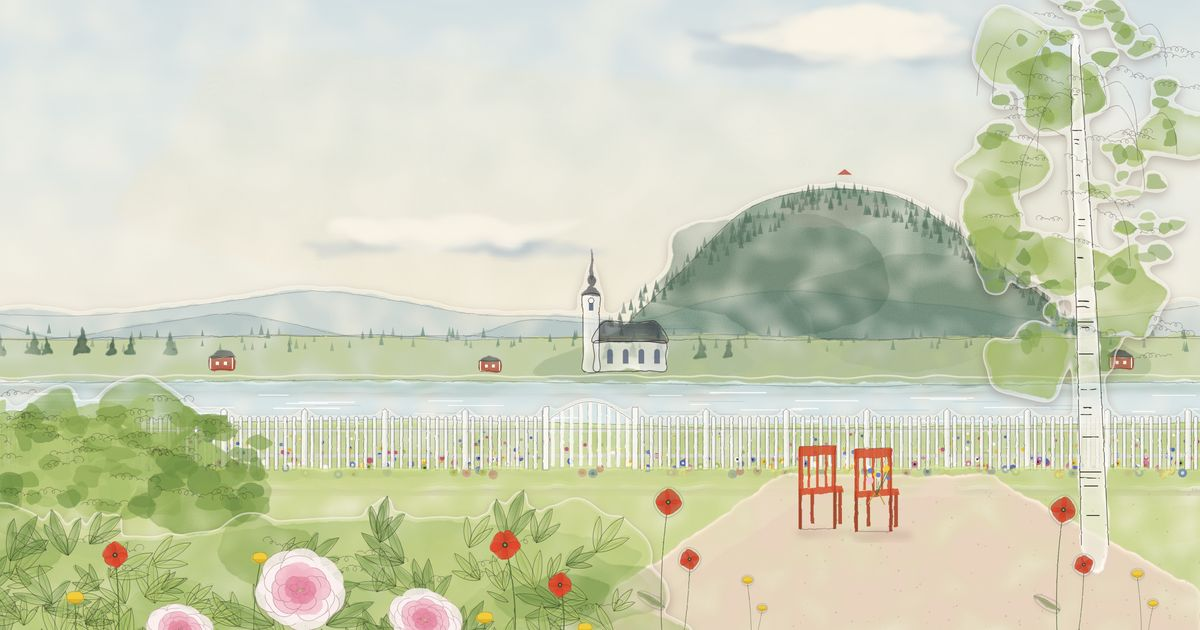
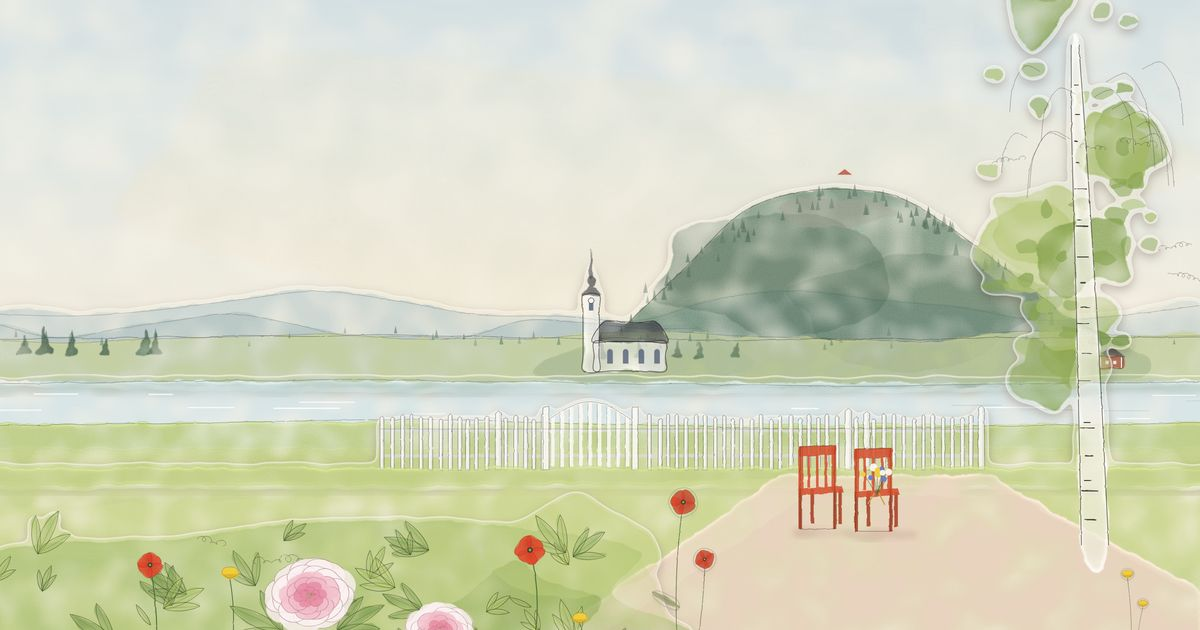
Fix review findings for both versions
Klimt: paint the hillside as clustered tree crowns sized by depth, the
meadow and houses in discrete dabs, a deeper river with vertical
reflections; orchard trunks in strokes and a greener canopy; remove the
dot ornament; keep route labels on one line; plain italic radios.
Larsson: a short irregular fence around the gate, a lighter birch, no
cloud bar, thin rails without sleepers. Both: no arrow glyphs.

Claude-Session: https://claude.ai/code/session_01L58MorUYAUdsrYZMewZZCv

diff --git a/assets/js/klimt.js b/assets/js/klimt.js
@@ -60,93 +60,113 @@
     }
   }
 
+  // Tree crowns: dabs clustered into rounded masses, light on top and violet in
+  // the shadow underneath, sized by depth (smaller up the hill, larger near).
+  function crowns(r, list, region, opt) {
+    var y = opt.y0 || 0;
+    while (y < (opt.y1 || 1)) {
+      var R = opt.radius(y), step = R * 1.25;
+      for (var x = -0.02; x < 1.02; x += step) {
+        var cx = x + (r() - 0.5) * step * 0.7, cy = y + (r() - 0.5) * step * 0.5;
+        if (!region(cx, cy)) continue;
+        var rad = R * (0.75 + r() * 0.5), size = opt.size(cy), count = Math.round(Math.pow(rad / size, 2) * 2.6);
+        for (var i = 0; i < count; i++) {
+          var a = r() * 6.2832, d = Math.sqrt(r()), px = cx + Math.cos(a) * d * rad, py = cy + Math.sin(a) * d * rad * 0.85;
+          if (!region(px, py)) continue;
+          var rel = (py - cy) / (rad * 0.85), light = (rel < -0.25 && (px - cx) < rad * 0.2) ? 1 : 0;
+          var bias = Math.max(0, rel * 0.9 + 0.35) + (opt.noise ? (opt.noise(px * 5, py * 5) - 0.5) * 0.8 : 0);
+          var col = light && r() < 0.6 ? pick(opt.light, r, 0) : pick(opt.palette, r, Math.max(0, bias));
+          var len = size * (0.42 + r() * 0.36);
+          list.push([px, py, len, len * (0.46 + r() * 0.2), (r() - 0.5) * 2.4, jitter(col, r, 24), r() * 0.82 + (opt.late || 0)]);
+        }
+      }
+      y += step * 0.62;
+    }
+  }
+
   var SCENES = {
-    // Järvsöklack seen across the Ljusnan: the hillside fills the square, crossed by a hay meadow;
-    // red farms and the white church along the shore; the river below.
-    jarvso: function (S) {
-      var r = rng(2708), n = noise2(rng(27)), s = 0.0145;
+    // Järvsöklack seen across the Ljusnan (after Litzlberg on the Attersee): the hillside fills
+    // the square in tree crowns, crossed by a hay meadow; farms and the white church on the shore.
+    jarvso: function () {
+      var r = rng(2708), n = noise2(rng(27)), s = 0.0135, shore = 0.835;
       var sky = function (x) { return x < 0.3 ? 0.065 - 0.03 * (x / 0.3) : 0.035 + 0.1 * Math.pow((x - 0.3) / 0.7, 1.4); };
-      var mt = function (x) { return 0.31 + 0.06 * (x - 0.28) + 0.012 * Math.sin(x * 9); };
-      var mb = function (x) { return mt(x) + 0.055 + 0.03 * (x - 0.28); };
+      var mt = function (x) { return 0.3 + 0.06 * (x - 0.28) + 0.012 * Math.sin(x * 9); };
+      var mb = function (x) { return mt(x) + 0.05 + 0.028 * (x - 0.28); };
       var inMeadow = function (x, y) { return x > 0.26 + 0.06 * (1 - Math.min(1, (y - mt(x)) / 0.05)) && y > mt(x) && y < mb(x); };
-      var knoll = function (x, y) { var dx = (x - 0.14) / 0.2, dy = (y - 0.8) / 0.075; return dx * dx + dy * dy < 1 && y < 0.8; };
-      var shore = 0.885;
+      var knoll = function (x, y) { var dx = (x - 0.14) / 0.2, dy = (y - 0.755) / 0.07; return dx * dx + dy * dy < 1 && y < 0.755; };
+      var depth = function (y) { return s * (0.7 + 0.75 * Math.max(0, (y - 0.05) / 0.8)); };
       var back = { id: "hill", dabs: [], shapes: [] }, mid = { id: "village", dabs: [], shapes: [] }, water = { id: "water", dabs: [], shapes: [] };
 
-      // sky: violet-blue with white cloud
-      fill(r, back.dabs, function (x, y) { return y < sky(x); }, { size: s * 1.3, palette: pal([["#7f8fd6", 3], ["#9aa6e0", 2], ["#6d78c4", 2], ["#eef0f6", 0]]), spread: 0.8, angle: 0.2 });
+      fill(r, back.dabs, function (x, y) { return y < sky(x) + 0.01; }, { size: s * 1.3, palette: pal([["#7f8fd6", 3], ["#9aa6e0", 2], ["#6d78c4", 2]]), spread: 0.8, angle: 0.2 });
       fill(r, back.dabs, function (x, y) { return y < sky(x) && Math.pow((x - 0.7) / 0.16, 2) + Math.pow((y - 0.025) / 0.025, 2) < 1; }, { size: s * 1.6, palette: pal([["#f1f2f6", 4], ["#dfe3f0", 2]]), spread: 0.5, late: 0.05 });
       fill(r, back.dabs, function (x, y) { return y < sky(x) && Math.pow((x - 0.95) / 0.1, 2) + Math.pow((y - 0.05) / 0.03, 2) < 1; }, { size: s * 1.6, palette: pal([["#f1f2f6", 4], ["#dfe3f0", 2]]), spread: 0.5, late: 0.05 });
-      // the forested hillside: greens with violet shadow, yellow-green light
-      var forest = pal([["#d4e05a", 0.9], ["#a8d050", 2], ["#7fb84a", 2.6], ["#5a9e44", 2.8], ["#3f7f3e", 2.6], ["#6a70b8", 1.3], ["#2f5a3a", 1.8], ["#41468a", 1.1]]);
-      fill(r, back.dabs, function (x, y) { return y >= sky(x) - 0.004 && y < shore && !inMeadow(x, y) && !knoll(x, y); }, { size: s, palette: forest, noise: n, dark: 1.4, spread: 2.2, jit: 30 });
-      // late-summer hay meadow across the slope
-      fill(r, back.dabs, inMeadow, { size: s * 1.25, palette: pal([["#b9dc5c", 3], ["#a6d452", 3], ["#cfe06e", 2], ["#93c64a", 1]]), spread: 0.5, angle: 0.06, ratio: 0.55, jit: 14, late: 0.02 });
-      // a bright knoll by the shore
-      fill(r, back.dabs, knoll, { size: s * 1.2, palette: pal([["#8fd04a", 3], ["#a6dc58", 2], ["#78bf40", 1]]), spread: 0.6, angle: -0.15, jit: 14 });
+      // an under-layer so no paper shows between crowns
+      fill(r, back.dabs, function (x, y) { return y >= sky(x) && y < shore && !inMeadow(x, y); }, { size: s * 1.4, step: 0.9, palette: pal([["#4f8a3e", 3], ["#3a6e3a", 3], ["#4c5296", 1]]), spread: 2, jit: 20 });
+      var forest = pal([["#a8d050", 1.4], ["#7fb84a", 2.6], ["#5a9e44", 2.8], ["#3f7f3e", 2.6], ["#2f5a3a", 2], ["#5a60aa", 1.4], ["#41468a", 1.2]]);
+      var lightPal = pal([["#d4e05a", 2], ["#b9dc5c", 3], ["#9fd04a", 2]]);
+      crowns(r, back.dabs, function (x, y) { return y >= sky(x) - 0.004 && y < shore - 0.01 && !inMeadow(x, y) && !knoll(x, y); },
+        { radius: function (y) { return 0.018 + 0.03 * Math.max(0, (y - 0.05) / 0.8); }, size: depth, palette: forest, light: lightPal, noise: n });
+      // the hay meadow: discrete bright dabs, not a smear
+      fill(r, back.dabs, inMeadow, { size: s * 1.15, step: 0.62, palette: pal([["#c8de60", 3], ["#b0d652", 3], ["#d8e47a", 1.5], ["#94c64a", 1.5], ["#7fb84a", 0.6]]), spread: 0.9, angle: 0.06, ratio: 0.5, jit: 30, late: 0.02 });
+      fill(r, back.dabs, knoll, { size: s * 1.2, step: 0.62, palette: pal([["#8fd04a", 3], ["#a6dc58", 2], ["#78bf40", 1.5], ["#5a9e44", 0.5]]), spread: 1, angle: -0.15, jit: 26 });
 
-      // the village: farms, the church, dark trees, two spruces
-      function house(x0, x1, yb, h, wall, roof, roofH) {
-        var shapes = mid.shapes;
-        shapes.push({ c: wall, p: [[x0, yb], [x0, yb - h], [x1, yb - h], [x1, yb]] });
-        shapes.push({ c: roof, p: [[x0 - 0.008, yb - h], [x0 + (x1 - x0) * 0.12, yb - h - roofH], [x1 - (x1 - x0) * 0.12, yb - h - roofH], [x1 + 0.008, yb - h]] });
-        fill(r, mid.dabs, function (x, y) { return x > x0 && x < x1 && y > yb - h && y < yb; }, { size: s * 0.7, palette: pal([[wall, 4], ["#ffffff", wall === "#efeee6" ? 1 : 0.15]]), spread: 0.3, jit: 18, late: 0.12, step: 0.7 });
-        fill(r, mid.dabs, function (x, y) { return y < yb - h && y > yb - h - roofH && x > x0 - 0.006 + (yb - h - y) / roofH * (x1 - x0) * 0.12 && x < x1 + 0.006 - (yb - h - y) / roofH * (x1 - x0) * 0.12; }, { size: s * 0.7, palette: pal([[roof, 4], ["#6a6c78", 1]]), spread: 0.25, jit: 16, late: 0.12, step: 0.7 });
-        for (var k = 0; k < Math.round((x1 - x0) / 0.03); k++) shapes.push({ c: "#2c3138", p: rect(x0 + 0.012 + k * 0.03, yb - h * 0.62, 0.008, h * 0.3) });
+      // the village, all in dabs
+      var trees = pal([["#3d6e3a", 3], ["#4f8a3e", 2], ["#2f5a34", 3], ["#2a4a3a", 2], ["#3a3f78", 1]]);
+      [[0.03, 0.755, 0.06], [0.27, 0.745, 0.05], [0.36, 0.765, 0.045], [0.53, 0.745, 0.06], [0.71, 0.755, 0.055], [0.98, 0.745, 0.06]].forEach(function (t) {
+        crowns(r, mid.dabs, function (x, y) { var dx = (x - t[0]) / t[2], dy = (y - t[1]) / (t[2] * 1.1); return dx * dx + dy * dy < 1 && y < shore; },
+          { y0: t[1] - t[2] * 1.1, y1: t[1] + t[2] * 1.1, radius: function () { return t[2] * 0.5; }, size: function () { return s * 1.05; }, palette: trees, light: pal([["#6faa44", 2], ["#8fc04a", 1]]), late: 0.06 });
+      });
+      function block(x0, x1, y0, y1, palette, size) {
+        fill(r, mid.dabs, function (x, y) { return x > x0 && x < x1 && y > y0 && y < y1; }, { size: size || s * 0.75, step: 0.42, palette: palette, spread: 0.35, jit: 16, late: 0.12 });
       }
-      function rect(x, y, w, h) { return [[x, y], [x + w, y], [x + w, y + h], [x, y + h]]; }
-      // dark tree masses behind the houses
-      var trees = pal([["#2f5a34", 3], ["#3d6e3a", 3], ["#4f8a3e", 2], ["#2a4a3a", 2], ["#3a3f78", 0.8]]);
-      [[0.03, 0.80, 0.06], [0.27, 0.79, 0.05], [0.36, 0.81, 0.045], [0.52, 0.79, 0.06], [0.7, 0.80, 0.055], [0.98, 0.79, 0.06]].forEach(function (t) {
-        fill(r, mid.dabs, function (x, y) { var dx = (x - t[0]) / t[2], dy = (y - t[1]) / (t[2] * 1.1); return dx * dx + dy * dy < 1 && y < shore; }, { size: s * 0.95, palette: trees, spread: 2.4, late: 0.06 });
-      });
-      house(0.05, 0.22, shore - 0.008, 0.045, "#efeee6", "#5b5e6c", 0.03);   // white farmhouse, long
-      house(0.26, 0.33, shore - 0.012, 0.035, "#a8402e", "#4a4c58", 0.026); // red barn
-      // the church on Kyrkön: nave and tall tower
+      function house(x0, x1, yb, h, wall, roof, roofH) {
+        block(x0, x1, yb - h, yb, pal([[wall, 5], [wall === "#efeee6" ? "#ffffff" : "#c05a44", 1], ["#9a9a92", wall === "#efeee6" ? 0.6 : 0]]));
+        fill(r, mid.dabs, function (x, y) { var t = (yb - h - y) / roofH; return y < yb - h + 0.002 && y > yb - h - roofH && x > x0 - 0.006 + t * (x1 - x0) * 0.12 && x < x1 + 0.006 - t * (x1 - x0) * 0.12; }, { size: s * 0.75, step: 0.42, palette: pal([[roof, 4], ["#6a6c78", 1.4], ["#383a46", 1]]), spread: 0.3, jit: 16, late: 0.13 });
+        for (var k = 0; k < Math.round((x1 - x0) / 0.03); k++) mid.dabs.push([x0 + 0.016 + k * 0.03, yb - h * 0.5, s * 0.32, s * 0.48, 0, "rgb(44,49,56)", 0.95]);
+      }
+      house(0.05, 0.22, shore - 0.008, 0.045, "#efeee6", "#5b5e6c", 0.03);
+      house(0.26, 0.33, shore - 0.012, 0.035, "#a8402e", "#4a4c58", 0.026);
       house(0.43, 0.54, shore - 0.01, 0.05, "#efeee6", "#4a4c58", 0.03);
-      mid.shapes.push({ c: "#efeee6", p: rect(0.405, shore - 0.135, 0.03, 0.125) });
-      mid.shapes.push({ c: "#3e404c", p: [[0.4, shore - 0.135], [0.42, shore - 0.175], [0.44, shore - 0.135]] });
-      mid.shapes.push({ c: "#3e404c", p: [[0.416, shore - 0.175], [0.42, shore - 0.215], [0.424, shore - 0.175]] });
-      fill(r, mid.dabs, function (x, y) { return x > 0.405 && x < 0.435 && y > shore - 0.135 && y < shore - 0.01; }, { size: s * 0.6, palette: pal([["#efeee6", 4], ["#d8dbe0", 1]]), spread: 0.2, jit: 12, late: 0.14, step: 0.7 });
-      mid.shapes.push({ c: "#2c3138", p: rect(0.416, shore - 0.115, 0.008, 0.014) });
-      house(0.6, 0.69, shore - 0.008, 0.04, "#a8402e", "#4a4c58", 0.03);    // red farm
-      house(0.76, 0.86, shore - 0.01, 0.042, "#b0473a", "#3e404c", 0.032);  // red farm with dark roof
-      // spruces, like Klimt's cypresses
+      block(0.405, 0.435, shore - 0.135, shore - 0.01, pal([["#efeee6", 5], ["#ffffff", 1], ["#c9ccd2", 1]]), s * 0.6);
+      fill(r, mid.dabs, function (x, y) { return y > shore - 0.178 && y < shore - 0.133 && Math.abs(x - 0.42) < 0.02 * (y - (shore - 0.178)) / 0.045 + 0.002; }, { size: s * 0.55, step: 0.42, palette: pal([["#3e404c", 4], ["#55586a", 1]]), spread: 0.3, late: 0.14 });
+      fill(r, mid.dabs, function (x, y) { return y > shore - 0.22 && y < shore - 0.176 && Math.abs(x - 0.42) < 0.0045; }, { size: s * 0.45, step: 0.42, palette: pal([["#3e404c", 1]]), spread: 0.2, angle: 1.57, late: 0.15 });
+      mid.dabs.push([0.42, shore - 0.108, s * 0.3, s * 0.45, 0, "rgb(44,49,56)", 0.96]);
+      house(0.6, 0.69, shore - 0.008, 0.04, "#a8402e", "#4a4c58", 0.03);
+      house(0.76, 0.86, shore - 0.01, 0.042, "#b0473a", "#3e404c", 0.032);
       [[0.885, 0.165], [0.925, 0.2], [0.955, 0.14]].forEach(function (t) {
-        fill(r, mid.dabs, function (x, y) { var hy = shore - t[1]; if (y < hy || y > shore) return false; var w = 0.022 * (y - hy) / t[1] + 0.004; return Math.abs(x - t[0]) < w; }, { size: s * 0.85, palette: pal([["#244a32", 3], ["#2f5a34", 3], ["#3d6e3a", 1], ["#2c2f5e", 0.6]]), spread: 0.8, angle: 1.57, late: 0.1 });
+        fill(r, mid.dabs, function (x, y) { var hy = shore - t[1]; if (y < hy || y > shore) return false; return Math.abs(x - t[0]) < 0.022 * (y - hy) / t[1] + 0.004; }, { size: s * 0.85, step: 0.45, palette: pal([["#244a32", 3], ["#2f5a34", 3], ["#3d6e3a", 1], ["#2c2f5e", 0.8]]), spread: 0.8, angle: 1.57, late: 0.1 });
       });
-      // a thin bright shoreline
-      fill(r, mid.dabs, function (x, y) { return y > shore - 0.006 && y < shore + 0.007; }, { size: s * 0.9, palette: pal([["#8fd04a", 3], ["#b9dc5c", 2]]), spread: 0.2, ratio: 0.4, late: 0.15 });
+      fill(r, mid.dabs, function (x, y) { return y > shore - 0.006 && y < shore + 0.008; }, { size: s * 0.9, palette: pal([["#8fd04a", 3], ["#b9dc5c", 2]]), spread: 0.2, ratio: 0.4, late: 0.15 });
 
-      // the river: long pale dabs, with the village reflected
-      var wpal = pal([["#b5c8b8", 3], ["#c8d3c6", 2], ["#9fb3a2", 2], ["#a9b4cc", 1.5], ["#8fa896", 1.2], ["#d6dccf", 1]]);
-      fill(r, water.dabs, function (x, y) { return y > shore + 0.005; }, { size: s * 1.25, palette: wpal, angle: 0, spread: 0.12, ratio: 0.32, jit: 16, late: 0.18, y0: shore - 0.01 });
-      [[0.05, 0.22, "#e6e8e0"], [0.26, 0.33, "#a8402e"], [0.405, 0.54, "#e6e8e0"], [0.6, 0.69, "#9a4232"], [0.76, 0.86, "#a24a3c"], [0.87, 0.97, "#2f5a34"], [0.0, 0.05, "#3d6e3a"], [0.5, 0.58, "#3d6e3a"]].forEach(function (h) {
-        fill(r, water.dabs, function (x, y) { return x > h[0] && x < h[1] && y > shore + 0.008 && y < shore + 0.065 && r() < 0.55; }, { size: s * 1.1, palette: pal([[h[2], 3], ["#b5c8b8", 1]]), angle: 0, spread: 0.1, ratio: 0.3, jit: 18, late: 0.2, y0: shore });
+      // the river: deep, green with the hill, the village mirrored in vertical strokes
+      var wpal = pal([["#a9c4a8", 3], ["#8fb894", 2.4], ["#c3d2c2", 2], ["#9fb0c8", 1.4], ["#7aa684", 1.4], ["#d6dccf", 1]]);
+      fill(r, water.dabs, function (x, y) { return y > shore + 0.006; }, { size: s * 1.3, step: 0.5, palette: wpal, angle: 0, spread: 0.12, ratio: 0.32, jit: 16, late: 0.18, y0: shore - 0.01 });
+      fill(r, water.dabs, function (x, y) { return y > shore + 0.006 && y < shore + 0.07 && r() < 0.5; }, { size: s * 1.2, palette: pal([["#5a9e44", 3], ["#3f7f3e", 2], ["#4c5296", 1]]), angle: 0, spread: 0.1, ratio: 0.3, jit: 18, late: 0.19, y0: shore });
+      [[0.05, 0.22, "#e6e8e0"], [0.26, 0.33, "#a8402e"], [0.405, 0.435, "#e6e8e0"], [0.43, 0.54, "#e6e8e0"], [0.6, 0.69, "#9a4232"], [0.76, 0.86, "#a24a3c"], [0.87, 0.97, "#2a4a3a"], [0.0, 0.05, "#3d6e3a"]].forEach(function (h) {
+        var deep = h[1] - h[0] < 0.04 ? 0.15 : 0.09;
+        fill(r, water.dabs, function (x, y) { return x > h[0] && x < h[1] && y > shore + 0.008 && y < shore + deep && r() < 0.6; }, { size: s * 1.05, palette: pal([[h[2], 3], ["#a9c4a8", 1]]), angle: 1.57, spread: 0.12, ratio: 0.26, jit: 18, late: 0.2, y0: shore });
       });
       return { layers: [back, mid, water] };
     },
 
-    // An orchard in late summer, after Pear Tree: a canopy of dabs with small
-    // pears, a hedge behind, trunks, one birch, and bright grass.
-    orchard: function (S) {
+    // An orchard in late summer, after Pear Tree: a canopy of greens with yellow-green
+    // light and small pears, violet only in shadow; trunks and one birch painted in strokes.
+    orchard: function () {
       var r = rng(2808), n = noise2(rng(28)), s = 0.0115;
       var back = { id: "canopy", dabs: [], shapes: [] }, mid = { id: "trunks", dabs: [], shapes: [] };
-      var canopy = pal([["#d8e05a", 0.8], ["#9fcf4c", 2], ["#6fb04a", 2.6], ["#3f8a5a", 2.4], ["#5b63b4", 2], ["#7a6cc0", 1], ["#2f6a5a", 1.6], ["#3e3f86", 0.9]]);
-      fill(r, back.dabs, function (x, y) { return y < 0.66 + 0.04 * Math.sin(x * 7); }, { size: s, palette: canopy, noise: n, dark: 1.1, spread: 2.6, jit: 34 });
-      fill(r, back.dabs, function (x, y) { return y > 0.6 && y < 0.82; }, { size: s * 0.7, palette: pal([["#5b63b4", 2], ["#3f8a5a", 2], ["#7a6cc0", 1], ["#2f6a5a", 2], ["#c9dc5a", 0.6], ["#d06a5a", 0.3]]), spread: 2.6, jit: 30, step: 0.5 });
-      fill(r, back.dabs, function (x, y) { return y >= 0.82; }, { size: s * 1.2, palette: pal([["#8fd04a", 3], ["#7cc044", 2], ["#a6dc58", 1.5], ["#6aaa40", 1]]), spread: 0.4, ratio: 0.5, jit: 14 });
-      // pears among the leaves
-      for (var i = 0; i < 70; i++) { var px = r(), py = r() * 0.6; back.dabs.push([px, py, s * 0.42, s * 0.36, r() * 3, "rgb(232,236,120)", 0.5 + r() * 0.4]); }
-      // trunks
-      function trunk(x, w, top, col, lean) {
-        mid.shapes.push({ c: col, p: [[x - w / 2, 0.97], [x - w / 2 + lean, top], [x + w / 2 + lean, top], [x + w / 2, 0.97]] });
-        fill(r, mid.dabs, function (px, py) { var t = (0.97 - py) / (0.97 - top), cx = x + lean * t; return py > top && py < 0.97 && Math.abs(px - cx) < w / 2; }, { size: s * 0.7, palette: pal([[col, 4], ["#6a5a4a", 1], ["#8a9a6a", 0.6]]), angle: 1.57, spread: 0.5, late: 0.15, step: 0.6 });
+      var canopy = pal([["#d8e05a", 1.1], ["#b4d652", 2], ["#8fc44a", 2.6], ["#64a848", 2.8], ["#3f8a52", 2.4], ["#2f6a4a", 1.6], ["#5b63b4", 0.9], ["#3e3f86", 0.6]]);
+      fill(r, back.dabs, function (x, y) { return y < 0.66 + 0.04 * Math.sin(x * 7); }, { size: s, palette: canopy, noise: n, dark: 1.6, spread: 2.6, jit: 28 });
+      crowns(r, back.dabs, function (x, y) { return y < 0.64 + 0.04 * Math.sin(x * 7); }, { radius: function () { return 0.06; }, size: function () { return s * 1.05; }, palette: canopy, light: pal([["#e2e86a", 2], ["#c8de60", 2]]), noise: n });
+      fill(r, back.dabs, function (x, y) { return y > 0.6 && y < 0.82; }, { size: s * 0.7, step: 0.5, palette: pal([["#3f8a5a", 3], ["#5b63b4", 1.4], ["#2f6a5a", 2], ["#8fc44a", 1.2], ["#c9dc5a", 0.6], ["#d06a5a", 0.3]]), spread: 2.6, jit: 30 });
+      fill(r, back.dabs, function (x, y) { return y >= 0.82; }, { size: s * 1.2, palette: pal([["#8fd04a", 3], ["#7cc044", 2], ["#a6dc58", 1.5], ["#6aaa40", 1]]), spread: 0.5, ratio: 0.5, jit: 18 });
+      for (var i = 0; i < 70; i++) { back.dabs.push([r(), r() * 0.6, s * 0.42, s * 0.36, r() * 3, "rgb(232,236,120)", 0.5 + r() * 0.4]); }
+      function trunk(x, w, top, cols, lean) {
+        fill(r, mid.dabs, function (px, py) { var t = (0.97 - py) / (0.97 - top), cx = x + lean * t; return py > top && py < 0.97 && Math.abs(px - cx) < w / 2; },
+          { size: s * 0.75, step: 0.4, palette: cols, angle: 1.57, spread: 0.45, ratio: 0.38, jit: 22, late: 0.15 });
       }
-      [[0.08, 0.035, 0.62, "#7a6450", 0.01], [0.3, 0.03, 0.66, "#806a54", -0.02], [0.45, 0.018, 0.7, "#7a6450", 0.005], [0.84, 0.04, 0.6, "#7a6450", 0.03], [0.95, 0.03, 0.63, "#806a54", -0.01], [0.56, 0.014, 0.72, "#7a6450", 0]].forEach(function (t) { trunk(t[0], t[1], t[2], t[3], t[4]); });
-      // the birch: pale bark with dark marks and lichen
-      trunk(0.68, 0.06, 0.55, "#c9c8bc", -0.01);
-      for (i = 0; i < 26; i++) { var by = 0.58 + r() * 0.38; mid.dabs.push([0.66 + r() * 0.04, by, s * (0.5 + r() * 0.6), s * 0.22, r() * 0.6 - 0.3, r() < 0.6 ? "rgb(44,44,40)" : "rgb(160,170,110)", 0.4 + r() * 0.4]); }
+      var bark = pal([["#7a6450", 4], ["#8c7660", 2], ["#5e4c3e", 2], ["#8a9a6a", 0.8]]);
+      [[0.08, 0.035, 0.62, 0.01], [0.3, 0.03, 0.66, -0.02], [0.45, 0.018, 0.7, 0.005], [0.84, 0.04, 0.6, 0.03], [0.95, 0.03, 0.63, -0.01], [0.56, 0.014, 0.72, 0]].forEach(function (t) { trunk(t[0], t[1], t[2], bark, t[3]); });
+      trunk(0.68, 0.06, 0.55, pal([["#d6d5ca", 4], ["#c2c1b4", 2], ["#2c2c28", 1.2], ["#a0aa6e", 0.8]]), -0.01);
       return { layers: [back, mid] };
     },
   };

diff --git a/assets/css/klimt.css b/assets/css/klimt.css
@@ -85,9 +85,7 @@ a:hover { color: var(--violet); text-decoration-color: var(--violet); }
 .section { padding: clamp(4rem, 11vh, 7.5rem) var(--gutter); }
 .column { max-width: 36rem; margin: 0 auto; }
 .section h2 { margin: 0 0 1.6rem; font: 400 clamp(1.15rem, 1rem + .6vw, 1.5rem)/1.3 var(--caps); letter-spacing: .3em; text-transform: uppercase; text-align: center; }
-.mark { display: block; width: 22px; height: 22px; margin: 0 auto 2.2rem; border-radius: 50%; background:
-  radial-gradient(circle at 30% 30%, #c9dc5a 0 18%, transparent 19%), radial-gradient(circle at 68% 40%, #4f9a3c 0 20%, transparent 21%),
-  radial-gradient(circle at 40% 72%, #5d64b0 0 19%, transparent 20%), radial-gradient(circle at 72% 74%, #74b443 0 17%, transparent 18%), #3a7a3a; }
+
 .note { font-style: italic; color: var(--slate-soft); text-align: center; }
 .schedule { list-style: none; margin: 2.2rem 0 0; padding: 0; }
 .schedule li { display: grid; grid-template-columns: 5.5rem 1fr; gap: 1rem; padding: .95rem 0; border-top: 1px solid var(--line); align-items: baseline; }
@@ -97,7 +95,7 @@ a:hover { color: var(--violet); text-decoration-color: var(--violet); }
 .schedule span { font-style: italic; color: var(--slate-soft); }
 .route { list-style: none; margin: 2.4rem 0; padding: 0; display: grid; grid-template-columns: repeat(6, 1fr); position: relative; font: .72rem/1.3 var(--caps); letter-spacing: .12em; text-transform: uppercase; text-align: center; }
 .route::before { content: ""; position: absolute; left: calc(100% / 12); right: calc(100% / 12); top: .45rem; border-top: 1px solid var(--slate); }
-.route li { position: relative; padding-top: 1.6rem; }
+.route li { position: relative; padding-top: 1.6rem; white-space: nowrap; letter-spacing: .06em; }
 .route li::before { content: ""; position: absolute; left: 50%; top: .1rem; width: .7rem; height: .7rem; margin-left: -.35rem; border-radius: 50%; background: var(--ground); border: 1px solid var(--slate); }
 .route li:last-child::before { background: var(--violet); border-color: var(--violet); }
 .route li:last-child { color: var(--violet); }
@@ -126,7 +124,7 @@ legend { padding: 0; margin-bottom: .6rem; }
 .choices { display: flex; flex-wrap: wrap; gap: .4rem 1.8rem; }
 .choice { position: relative; display: inline-flex; }
 .choice input { position: absolute; opacity: 0; inset: 0; margin: 0; cursor: pointer; }
-.choice span { display: inline-flex; align-items: center; gap: .6rem; min-height: 44px; font-style: italic; cursor: pointer; }
+.choice span { display: inline-flex; align-items: center; gap: .6rem; min-height: 44px; font: italic 1.08rem/1.3 var(--text); letter-spacing: 0; text-transform: none; cursor: pointer; }
 .choice span::before { content: ""; width: .8rem; height: .8rem; border-radius: 50%; border: 1px solid var(--slate); flex: none; transition: background-color .3s, box-shadow .3s; }
 .choice input:checked + span::before { background: var(--violet); border-color: var(--violet); box-shadow: inset 0 0 0 2px var(--ground); }
 .choice input:focus-visible + span { outline: 1.5px solid var(--slate); outline-offset: 4px; }

diff --git a/tools/paint/scene.js b/tools/paint/scene.js
@@ -213,7 +213,7 @@ function birch(x, yBase, h, lean = 0, spread = 1) {
   const cx = x + lean * 0.8, cy = yBase - h * 0.72, cw = h * 0.26 * spread, ch = h * 0.4;
   const inCrown = () => { for (;;) { const u = rr(-1, 1), v = rr(-1, 1); if (u * u + v * v < 1) return [cx + u * cw, cy + v * ch]; } };
   for (let i = 0; i < 9; i++) { const [bx, by] = inCrown(); crown.push(wash(blob(bx, by, rr(50, 90) * h / 900, rr(40, 80) * h / 900, 10, 0.3), pick([C.leafLight, "#b9c97c", C.leafMid]), rr(0.75, 0.95), "wc")); }
-  for (let i = 0; i < 70; i++) {
+  for (let i = 0; i < 38; i++) {
     const [bx, by] = inCrown(), low = (by - cy) / ch;
     crown.push(washOff(blob(bx, by, rr(10, 22) * h / 900, rr(8, 16) * h / 900, 7, 0.35), low > 0.3 && rnd() < 0.3 ? C.leaf : pick([C.leafMid, "#a8bf6c", C.leafMid]), rr(0.5, 0.8), "wcfine", 3));
   }
@@ -233,7 +233,7 @@ function birch(x, yBase, h, lean = 0, spread = 1) {
     s += ink(smooth([[sx, sy], [sx + dir * len * 0.3, sy - len * 0.1], [sx + dir * len * 0.55, sy + len * 0.3], [sx + dir * len * 0.62, sy + len * 0.85]], false), 0.8, C.ink, 0.55);
   }
   // loop scribbles over the crown
-  for (let i = 0; i < 12; i++) {
+  for (let i = 0; i < 6; i++) {
     const [lx, ly] = inCrown();
     s += ink(loops(lx, ly, lx + rr(40, 90) * h / 900, ly + rr(-10, 25), rr(3.5, 5.5) * h / 900), 0.8, C.ink, 0.5);
   }
@@ -545,9 +545,9 @@ function picketFence(x0, x1, yBase, h, gateAt) {
   const rail = (yy) => polyL([[x0, yy], [x1, yy], [x1, yy + h * 0.06], [x0, yy + h * 0.06]], 0.6);
   s += wash(rail(yBase - h * 0.78), G.picketShade, 0.9, "wcfine") + wash(rail(yBase - h * 0.3), G.picketShade, 0.9, "wcfine");
   const step = h * 0.17;
-  for (let x = x0; x < x1; x += step) {
+  for (let x = x0; x < x1; x += step * rr(0.85, 1.2)) {
     if (gateAt && Math.abs(x - gateAt) < h * 0.9) continue;
-    const big = Math.round((x - x0) / step) % 9 === 0, ph = big ? h * 1.12 : h, pw = big ? step * 0.7 : step * 0.42;
+    const big = rnd() < 0.08, ph = (big ? h * 1.12 : h) * rr(0.93, 1.05), pw = big ? step * 0.7 : step * rr(0.36, 0.48);
     const d = polyL([[x, yBase], [x, yBase - ph], [x + pw / 2, yBase - ph - pw * 0.4], [x + pw, yBase - ph], [x + pw, yBase]], 0.5);
     s += wash(d, G.picket, 1, "wcfine") + wash(polyL([[x + pw * 0.62, yBase], [x + pw * 0.62, yBase - ph], [x + pw, yBase - ph], [x + pw, yBase]], 0.3), G.picketShade, 0.7, "wcfine") + ink(d, 1, C.ink, 0.55);
   }

diff --git a/assets/css/site.css b/assets/css/site.css
@@ -236,7 +236,7 @@ a:hover { text-decoration-color: currentColor; }
 .line-north { margin: clamp(2.5rem, 6vh, 4rem) 0; }
 .line-north ol { list-style: none; margin: 0; padding: 0; display: grid; grid-template-columns: repeat(6, 1fr); position: relative; }
 .line-north ol::before { content: ""; position: absolute; left: calc(100% / 12); right: calc(100% / 12); top: 1.05rem; height: 7px;
-  background: linear-gradient(var(--ink), var(--ink)) top / 100% 1.5px no-repeat, linear-gradient(var(--ink), var(--ink)) bottom / 100% 1.5px no-repeat, repeating-linear-gradient(90deg, var(--ink-soft) 0 1.5px, transparent 1.5px 9px); opacity: .7; }
+  background: linear-gradient(var(--ink), var(--ink)) top / 100% 1px no-repeat, linear-gradient(var(--ink), var(--ink)) bottom / 100% 1px no-repeat; opacity: .6; }
 .line-north li { text-align: center; position: relative; padding-top: 2.6rem; font-size: .98rem; line-height: 1.25; }
 .line-north li::before { content: ""; position: absolute; left: 50%; top: .55rem; width: 1.15rem; height: 1.15rem; margin-left: -.575rem; border-radius: 50%; background: var(--paper); border: 2px solid var(--ink); }
 .line-north li.is-end::before { background: var(--falu); border-color: #8b2d22; width: 1.6rem; height: 1.6rem; margin-left: -.8rem; top: .32rem; box-shadow: 0 0 0 4px var(--paper), 0 0 0 5.5px var(--gold); }
@@ -319,7 +319,7 @@ legend { padding: 0; margin-bottom: .55rem; }
   .schedule li { grid-template-columns: 4.4rem 1fr; gap: 1rem; }
   .line-north ol { grid-template-columns: 1fr; }
   .line-north ol::before { left: 1.05rem; right: auto; top: 1.2rem; bottom: 1.6rem; width: 7px; height: auto;
-    background: linear-gradient(var(--ink), var(--ink)) left / 1.5px 100% no-repeat, linear-gradient(var(--ink), var(--ink)) right / 1.5px 100% no-repeat, repeating-linear-gradient(180deg, var(--ink-soft) 0 1.5px, transparent 1.5px 9px); }
+    background: linear-gradient(var(--ink), var(--ink)) left / 1px 100% no-repeat, linear-gradient(var(--ink), var(--ink)) right / 1px 100% no-repeat; }
   .line-north li { text-align: left; padding: .35rem 0 .9rem 3.2rem; }
   .line-north li::before { left: 1.4rem; top: .55rem; }
   .line-north li.is-end::before { top: .35rem; }

diff --git a/tools/paint/compose.js b/tools/paint/compose.js
@@ -12,14 +12,14 @@ const LAYOUTS = {
   wide: {
     W: 2400, H: 1500,
     sun: [1300, 300, 52],
-    clouds: [[1750, 250, 520, 80]],
+    clouds: [],
     horizon: 880,
     klack: { x: 1660, y: 560, w: 980, h: 380 },
     ridges: [[0, 2400, 790, 940, "#c3d0cf", 5, 40], [0, 1400, 830, 940, "#b4c4c2", 4, 30]],
     church: { x: 1260, y: 922, s: 0.62 },
     farmsFar: [[2200, 916, 44]],
     river: [935, 1040],
-    fence: { y: 1120, h: 105, gate: 1180 },
+    fence: { y: 1120, h: 105, gate: 1180, x0: 760, x1: 1960 },
     birch: [2190, 1270, 1000, -40, 0.8],
     bush: null,
     tree: null,
@@ -34,14 +34,14 @@ const LAYOUTS = {
   tall: {
     W: 1200, H: 2400,
     sun: [1050, 1310, 34],
-    clouds: [[350, 1150, 420, 70]],
+    clouds: [],
     horizon: 1440,
     klack: { x: 820, y: 1230, w: 640, h: 260 },
     ridges: [[0, 1200, 1350, 1500, "#c3d0cf", 3, 36], [0, 700, 1390, 1500, "#b4c4c2", 2, 26]],
     church: { x: 300, y: 1482, s: 0.52 },
     farmsFar: [],
     river: [1500, 1615],
-    fence: { y: 1700, h: 100, gate: 420 },
+    fence: { y: 1700, h: 100, gate: 420, x0: 110, x1: 980 },
     birch: [1080, 1950, 720, -30, 0.8],
     bush: null,
     tree: [180, 1420, 160, 170],
@@ -112,7 +112,7 @@ const layers = {
     B.seed(404);
     const { W, H } = L;
     let s = "";
-    s += S.picketFence(-40, W + 40, L.fence.y, L.fence.h, L.fence.gate);
+    s += S.picketFence(L.fence.x0, L.fence.x1, L.fence.y, L.fence.h, L.fence.gate);
     s += wash(`M-40 ${L.fence.y - 6}H${W + 40}V${H + 40}H-40Z`, "#c2cf86", 1);
     s += B.washOff(blob(W * 0.5, L.fence.y + 120, W * 0.6, 90, 12, 0.2), "#d3db98", 0.6, "wc", 8);
     s += wash(B.poly(L.path, 2, 60), G.path, 1);

diff --git a/klimt/wedding.html b/klimt/wedding.html
@@ -41,7 +41,6 @@
 
     <section class="section" id="welcome" aria-labelledby="welcome-title">
       <div class="column reveal">
-        <span class="mark" aria-hidden="true"></span>
         <h2 id="welcome-title" data-i18n="welcome.title">Welcome</h2>
         <p data-i18n="welcome.p1">We are getting married at the end of summer, in the green valley of the Ljusnan river in Hälsingland — and we would love to have you there.</p>
         <p data-i18n="welcome.p2">This page gathers what you need: how the day will unfold, how to find your way to Järvsö, where to stay, and a place to tell us you’re coming. We’ll add more as the details are settled.</p>
@@ -91,7 +90,6 @@
 
     <section class="section" id="rsvp" aria-labelledby="rsvp-title">
       <div class="column reveal">
-        <span class="mark" aria-hidden="true"></span>
         <h2 id="rsvp-title" data-i18n="rsvp.title">RSVP</h2>
         <p class="note" data-i18n="rsvp.intro">Let us know whether you can come. One answer per household is perfect.</p>
         <div id="rsvp-pane">
@@ -146,7 +144,7 @@
             </div>
 
             <div class="form-foot">
-              <button class="send" type="submit"><span data-i18n="f.submit">Send answer</span> <span aria-hidden="true">→</span></button>
+              <button class="send" type="submit"><span data-i18n="f.submit">Send answer</span></button>
             </div>
             <p class="form-status" role="status" aria-live="polite"></p>
           </form>

diff --git a/index.html b/index.html
@@ -40,7 +40,7 @@
       <p class="date-words settle" data-i18n="std.weekday">Friday · Järvsö, Hälsingland</p>
       <p class="quiet-links settle">
         <a href="assets/sanjin-alma-2027-08-27.ics" download data-i18n="cta.calendar">Add to calendar</a>
-        <a href="wedding.html" data-keep-lang><span data-i18n="cta.wedding">The wedding page</span> <span aria-hidden="true">→</span></a>
+        <a href="wedding.html" data-keep-lang data-i18n="cta.wedding">The wedding page</a>
       </p>
     </div>
   </main>

diff --git a/wedding.html b/wedding.html
@@ -180,7 +180,7 @@
             </div>
 
             <div class="form-foot">
-              <button class="send" type="submit"><span data-i18n="f.submit">Send answer</span> <span aria-hidden="true">→</span></button>
+              <button class="send" type="submit"><span data-i18n="f.submit">Send answer</span></button>
             </div>
             <p class="form-status" role="status" aria-live="polite"></p>
           </form>
